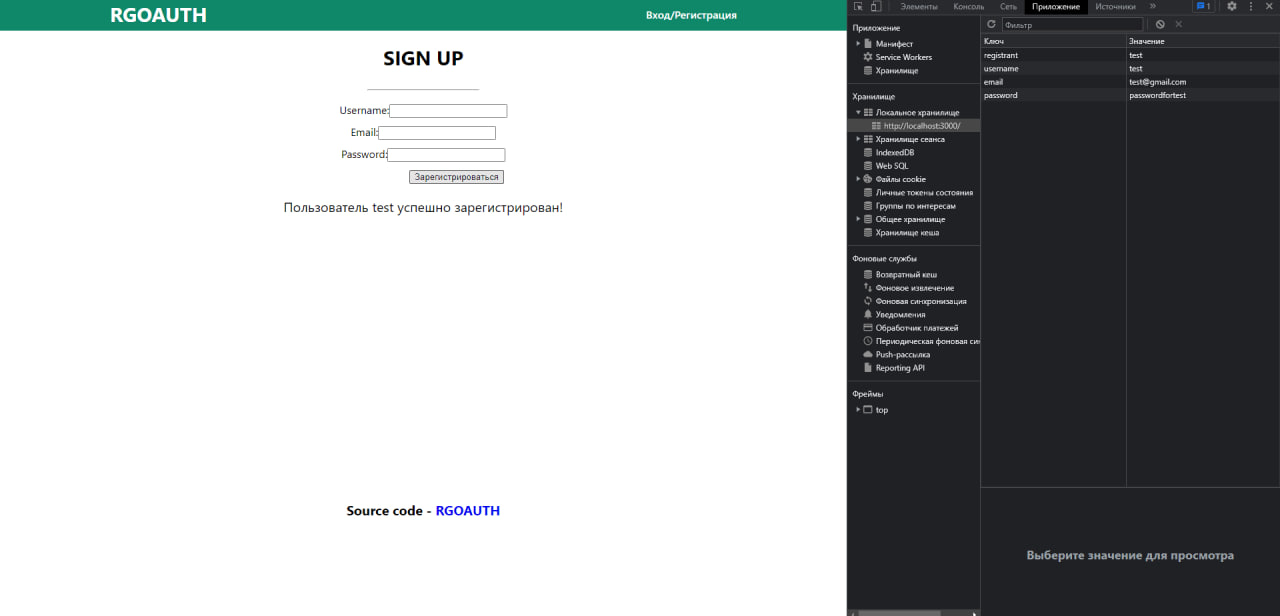
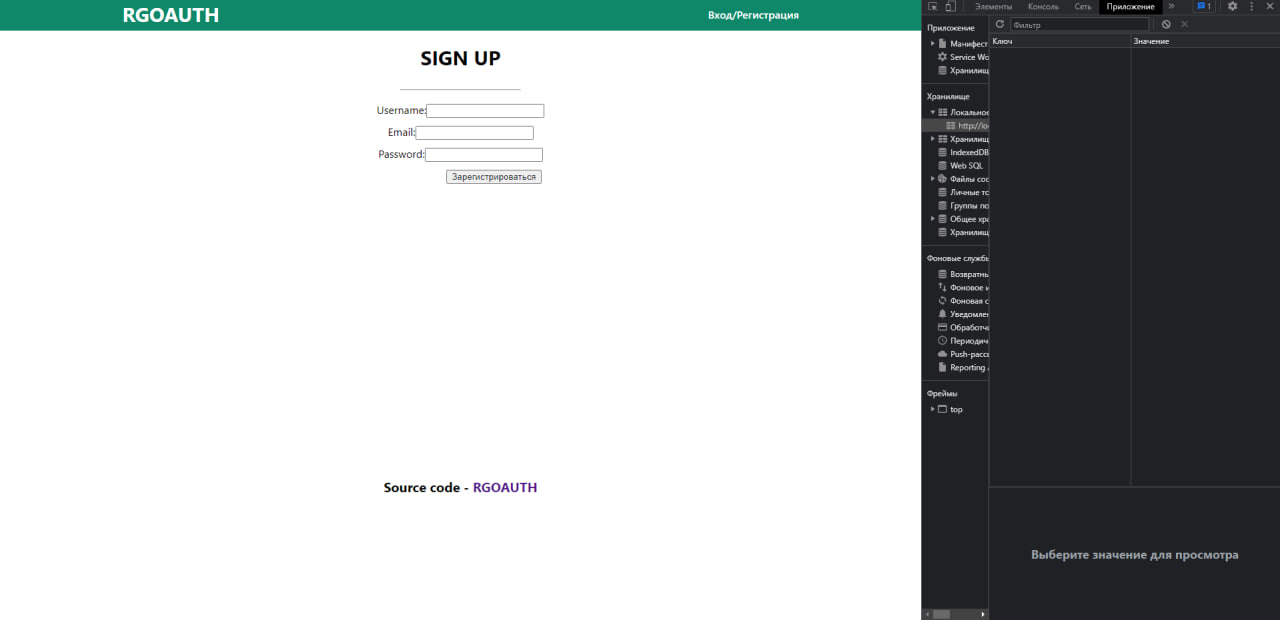
Added password hashing...

diff --git a/frontend/src/Header/index.js b/frontend/src/Header/index.js
@@ -1,9 +1,9 @@
-import React, {useState} from 'react';
+import React from 'react';
 import { NavLink } from 'react-router-dom';
 import './header.css';
 
 function Header() {
-  const username = localStorage.getItem('username') || '';
+  const username = localStorage.getItem('username');
 
   function logout() {
     localStorage.removeItem('registrant');
@@ -24,14 +24,18 @@ function Header() {
       {username && <div className="hello"><h3>Hello, {username}!</h3></div>}
       </div>
       <nav className="menu">
-        <div className="log-reg">
-        <NavLink to='/login' className="menu__item">Вход</NavLink>/
-        <NavLink to='/register' className="menu__item">Регистрация</NavLink>
-        </div>
+        {!username && (
+          <div className="log-reg">
+            <NavLink to='/login' className="menu__item">Вход</NavLink>/
+            <NavLink to='/register' className="menu__item">Регистрация</NavLink>
+          </div>
+        )}
         
-        {username && <div className="menu__item">
-          | <a href="#" className='logout' onClick={logout}>Выход</a>
-        </div>}
+        {username && (
+          <div className="menu__item">
+            <a href="#" className='logout' onClick={logout}>Выход</a>
+          </div>
+        )}
       </nav>
     </div>
   )

diff --git a/frontend/src/Login/index.js b/frontend/src/Login/index.js
@@ -5,7 +5,9 @@ function LoginForm() {
   const [email, setEmail] = useState('');
   const [password, setPassword] = useState('');
   const [message, setMessage] = useState('');
+  const [error, setError] = useState('');
 
+  // Heandlers
   const handleEmailChange = (event) => {
     setEmail(event.target.value);
   }
@@ -26,8 +28,16 @@ function LoginForm() {
           window.location.href = "/";
         }, 1000);
       })
-      .catch(error => setMessage(error.response.data.message || error.message));
+      .catch(error => {
+        if (error.response.status === 400 && error.response.data === "Request failed with status code 400") {
+          setMessage("Неверные email или пароль");
+        } else {
+          console.log(error.response.data.message || error.message);
+          setMessage("Неверные email или пароль");
+        }
+      });
   }
+
 
   return (
     <div className='fmt-form'>

diff --git a/backend/main.go b/backend/main.go
@@ -10,17 +10,22 @@ import (
 	"os"
 
 	_ "github.com/go-sql-driver/mysql"
+	"github.com/joho/godotenv"
+	"golang.org/x/crypto/bcrypt"
 )
 
 var (
+	_ = godotenv.Load()
 	// .env vars
-	PORT   = os.Getenv("PORT")
-	DBName = os.Getenv("DB_NAME")
+	PORT = os.Getenv("PORT")
+	// Получение переменных окружения
 	DBUser = os.Getenv("DB_USER")
 	DBPass = os.Getenv("DB_PASS")
+	DBName = os.Getenv("DB_NAME")
+	DBHost = os.Getenv("DB_HOST")
+	DBPort = os.Getenv("DB_PORT")
 	// DB connection...
-	// DBConn = fmt.Sprintf("%s:%s@tcp(127.0.0.1:3306)/%s", DBUser, DBPass, DBName)
-	DBConn = "root:MySQL123@tcp(127.0.0.1:3306)/rgoauth"
+	DBConn = fmt.Sprintf("%s:%s@tcp(%s:%s)/%s", DBUser, DBPass, DBHost, DBPort, DBName)
 )
 
 type User struct {
@@ -31,6 +36,7 @@ type User struct {
 }
 
 func main() {
+	fmt.Println(DBConn)
 	log.SetFlags(log.LstdFlags | log.Lshortfile)
 	if PORT == "" {
 		PORT = ":8080"
@@ -47,6 +53,7 @@ func EnableCORS(w *http.ResponseWriter) {
 	(*w).Header().Set("Access-Control-Allow-Headers", "Content-Type, Access-Control-Allow-Headers, Authorization, X-Requested-With")
 }
 
+// SignUp handler
 func RegisterHandler(w http.ResponseWriter, r *http.Request) {
 	EnableCORS(&w)
 	if r.Method == "OPTIONS" {
@@ -96,7 +103,15 @@ func RegisterHandler(w http.ResponseWriter, r *http.Request) {
 	}
 	defer stmt.Close()
 
-	result, err := stmt.Exec(user.Username, user.Email, user.Password)
+	hashedPassword, err := bcrypt.GenerateFromPassword([]byte(user.Password), bcrypt.DefaultCost)
+	if err != nil {
+		log.Println("Error hashing password:", err)
+		http.Error(w, "Internal server error", http.StatusInternalServerError)
+		return
+	}
+
+	result, err := stmt.Exec(user.Username, user.Email, string(hashedPassword))
+
 	if err != nil {
 		log.Println("Error inserting user into database:", err)
 		http.Error(w, "Internal server error", http.StatusInternalServerError)
@@ -143,7 +158,7 @@ func LoginHandler(w http.ResponseWriter, r *http.Request) {
 
 	// Проверяем, что пользователь существует и пароль совпадает
 	// SELECT id FROM users WHERE username = ? AND password = ?
-	stmt, err := db.Prepare("SELECT username FROM users WHERE email = ? AND password = ?")
+	stmt, err := db.Prepare("SELECT username, password FROM users WHERE email = ?")
 	if err != nil {
 		log.Println("Error preparing database query:", err)
 		http.Error(w, "Internal server error", http.StatusInternalServerError)
@@ -151,11 +166,39 @@ func LoginHandler(w http.ResponseWriter, r *http.Request) {
 	}
 	defer stmt.Close()
 
-	// var id int64
-	err = stmt.QueryRow(user.Email, user.Password).Scan(&user.Username)
+	var hashedPassword string
+	err = stmt.QueryRow(user.Email).Scan(&user.Username, &hashedPassword)
 	if err != nil {
-		log.Fatal(err)
+		if err == sql.ErrNoRows {
+			http.Error(w, "Invalid email or password", http.StatusBadRequest)
+			log.Printf("Email не найден\nОшибка: %v", err)
+			return
+		}
+		log.Println(err)
+		http.Error(w, "Internal server error", http.StatusInternalServerError)
+		return
 	}
+
+	fmt.Println("User Pass: ", user.Password)
+	err = bcrypt.CompareHashAndPassword([]byte(hashedPassword), []byte(user.Password))
+	if err != nil {
+		http.Error(w, "Invalid email or password", http.StatusBadRequest)
+		log.Printf("Неверный пароль\nОшибка: %v", err)
+		return
+	}
+
+	fmt.Println("User Pass: ", user.Password)
+
+	// var id int64
+	fmt.Println("Username: ", user.Username)
+	err = stmt.QueryRow(user.Email).Scan(&user.Username, &user.Password)
+	// err = stmt.QueryRow(user.Email).Scan(&user.Username)
+
+	if err != nil {
+		log.Panicln(err)
+	}
+
+	fmt.Println("Username: ", user.Username)
 
 	// Возвращаем ответ с именем пользователя в теле
 	resp := struct {
@@ -172,6 +215,7 @@ func LoginHandler(w http.ResponseWriter, r *http.Request) {
 
 	fmt.Println("Выполнен вход под именем пользователя:", user.Username)
 
+	fmt.Println("User Pass: ", user.Password)
 	fmt.Println(resp)
 }
 
@@ -213,59 +257,46 @@ func generateSessionID(length int) string {
 	return string(b)
 }
 
+// DB
+
+func DBQuerry(querry, comment string) {
+	// защищаем переменные БД
+	// DBConn := fmt.Sprintf("%s:%s@tcp(%s:%s)/%s", DBUser, DBPass, DBHost, DBPort, DBName)
+
+	// Соедененеие с базой данных
+	db, err := sql.Open("mysql", DBConn)
+	if err != nil {
+		log.Fatal(err)
+	}
+	defer db.Close()
+
+	_, err = db.Exec(fmt.Sprint(querry))
+	if err != nil {
+		log.Fatal(err)
+	}
+
+	log.Println(comment)
+}
+
 // Creating Tables
 func InitTables() {
-	CreateUsers()
-	CreateSessions()
-	log.Println("БД подключена...")
-}
-
-// Session table
-func CreateSessions() {
-	// Инициализация соединения с базой данных
-	db, err := sql.Open("mysql", DBConn)
-	if err != nil {
-		log.Fatal(err)
-	}
-	defer db.Close()
-
-	// Создание таблицы sessions, если ее нет
-	_, err = db.Exec(`
-        CREATE TABLE IF NOT EXISTS sessions (
-            id VARCHAR(350) NOT NULL PRIMARY KEY,
-            user_id VARCHAR(350) NOT NULL,
-            token VARCHAR(128) DEFAULT NULL,
-            created_at TIMESTAMP DEFAULT CURRENT_TIMESTAMP
-        );
-    `)
-	if err != nil {
-		log.Fatal(err)
-	}
-
-	log.Println("Таблица sessions создана или уже существует")
-}
-
-// Users table
-func CreateUsers() {
-	// Инициализация соединения с базой данных
-	db, err := sql.Open("mysql", DBConn)
-	if err != nil {
-		log.Fatal(err)
-	}
-	defer db.Close()
-
-	// Создание таблицы users, если ее нет
-	_, err = db.Exec(`
+	// Create users table
+	DBQuerry(`
 	CREATE TABLE IF NOT EXISTS users (
 		id INT AUTO_INCREMENT PRIMARY KEY,
 		username VARCHAR(50) UNIQUE NOT NULL,
 		email VARCHAR(50) UNIQUE NOT NULL,
-		password VARCHAR(50) NOT NULL
-	  );
-    `)
-	if err != nil {
-		log.Fatal(err)
-	}
+		password VARCHAR(255) NOT NULL
+	  );`, "Таблица users создана или уже существует")
 
-	log.Println("Таблица users создана или уже существует")
+	// Create sessions table
+	DBQuerry(`
+	CREATE TABLE IF NOT EXISTS sessions (
+		id VARCHAR(350) NOT NULL PRIMARY KEY,
+		user_id VARCHAR(350) NOT NULL,
+		token VARCHAR(128) DEFAULT NULL,
+		created_at TIMESTAMP DEFAULT CURRENT_TIMESTAMP
+	);`, "Таблица sessions создана или уже существует")
+
+	log.Println("Таблицы users, session созданы...")
 }

diff --git a/README.md b/README.md
@@ -16,7 +16,7 @@
 
   ### loggined user
 \
-![](docs/img/1.png)
+![](docs/img/1.jpg)
   
 </details>
 
@@ -24,10 +24,12 @@
   <summary><code>/login</code> heandler </summary>
 
   `/login` heandler
-\
+
 ![login-screen](docs/img/empty.png)
 
-![loggined](docs/img/login.png)
+### After authorization, the password is hashed
+\
+  ![](docs/img/hashed-pass.jpg)
   
 </details>
 
@@ -37,6 +39,8 @@
 ### `/signup` heandler 
 \
 ![](docs/img/signup.jpg)
+
+![](docs/img/signup-process.jpg)
   
 </details>
 
